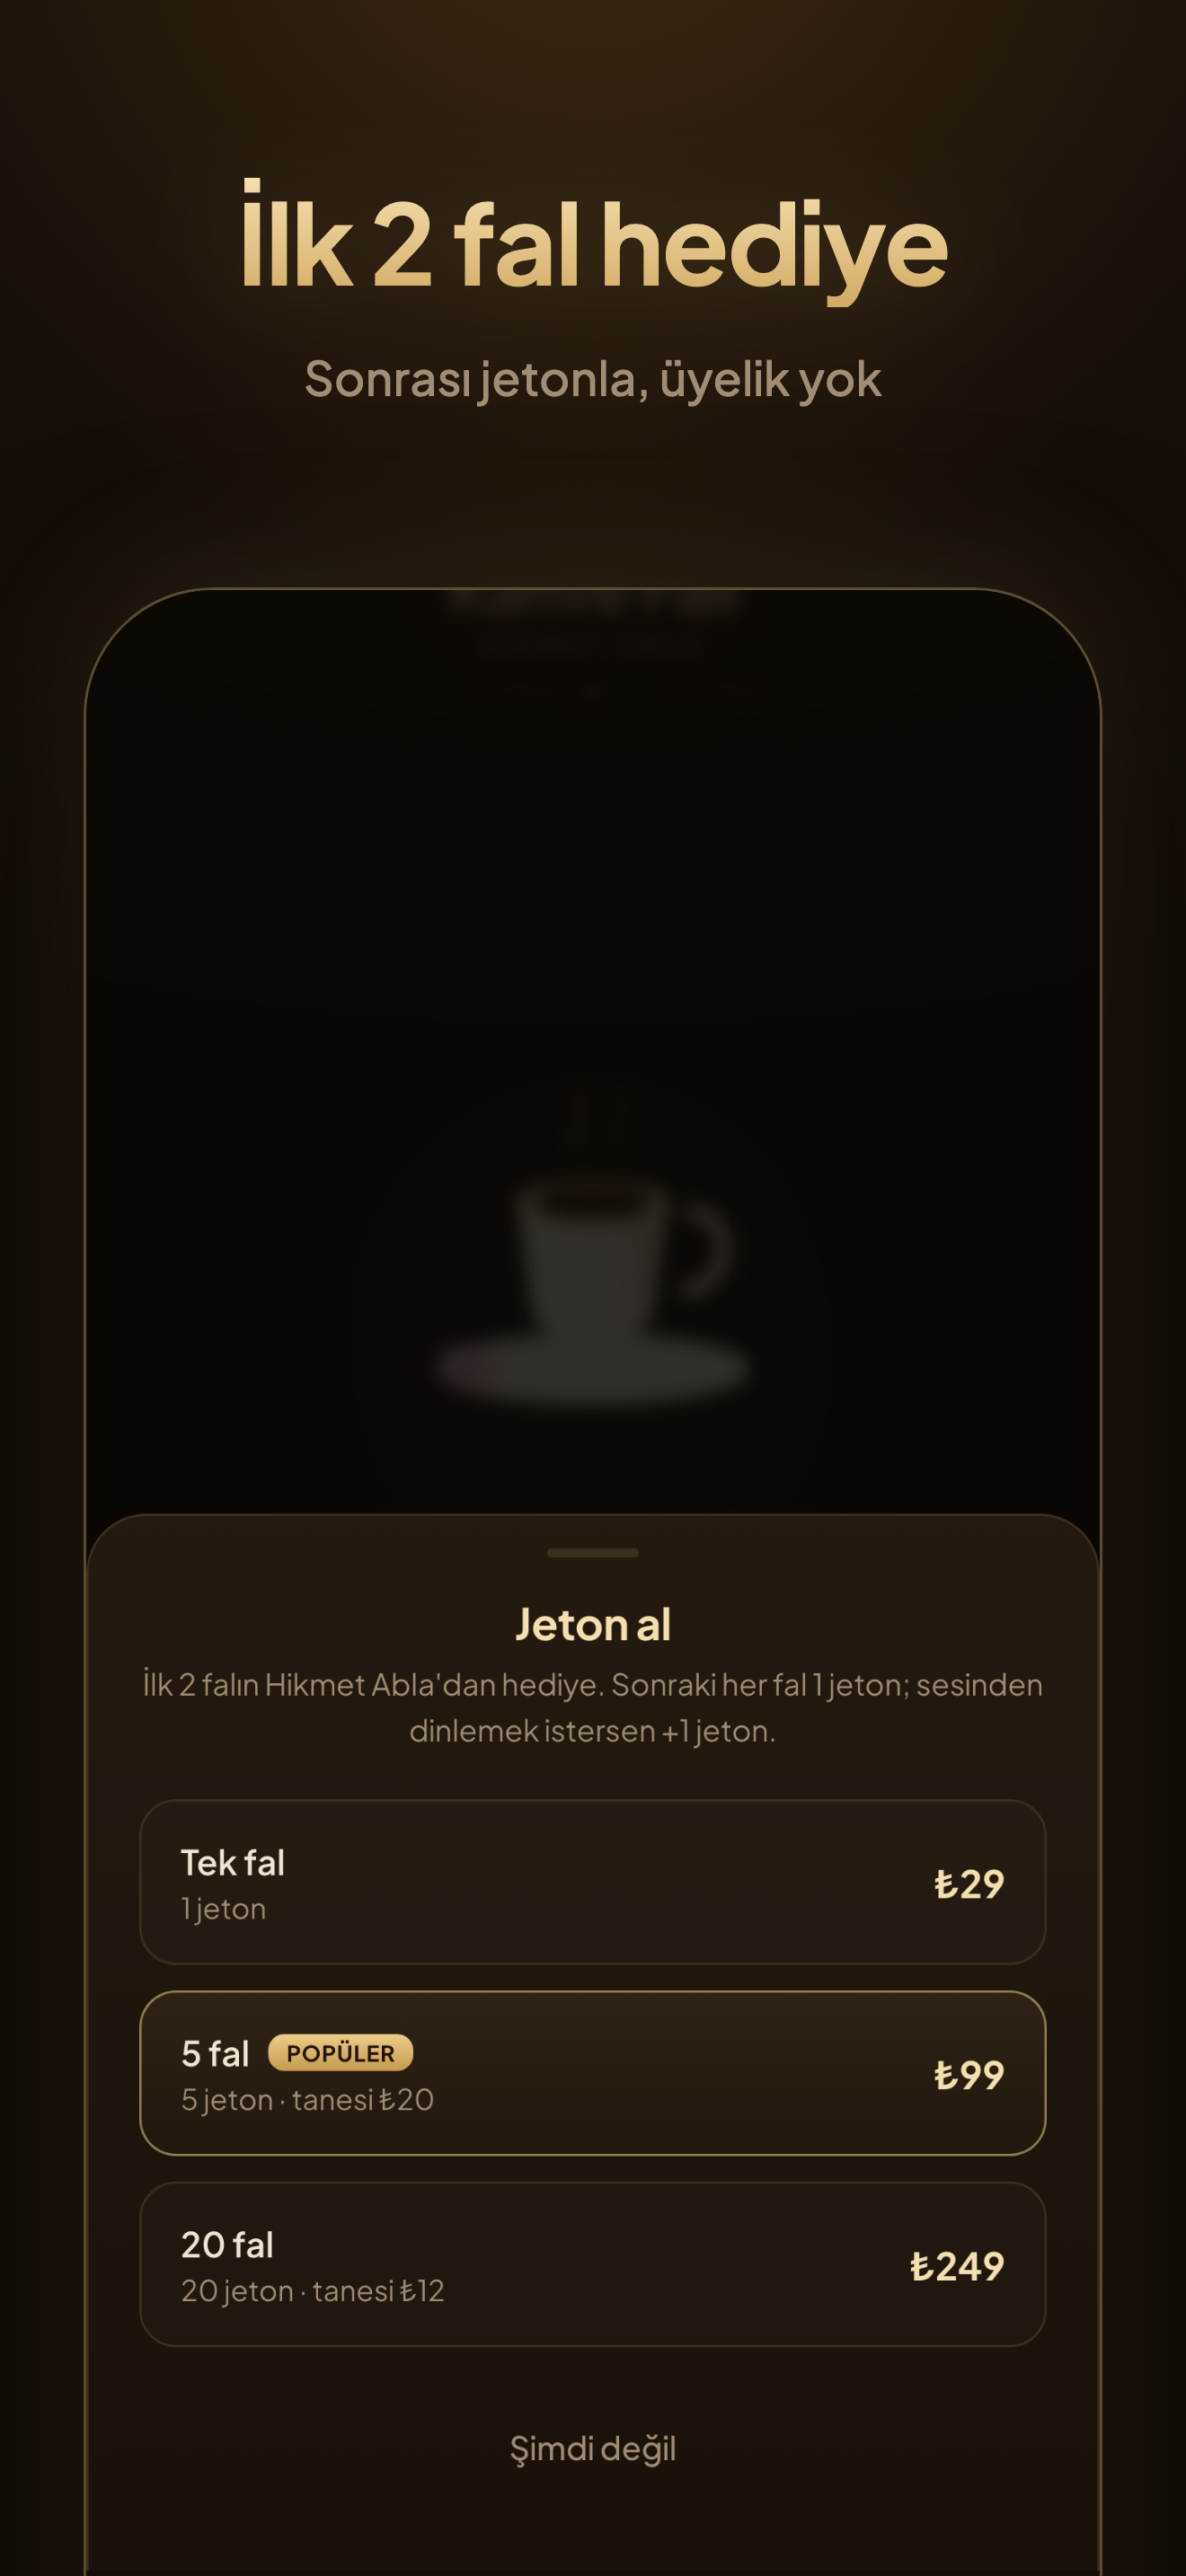
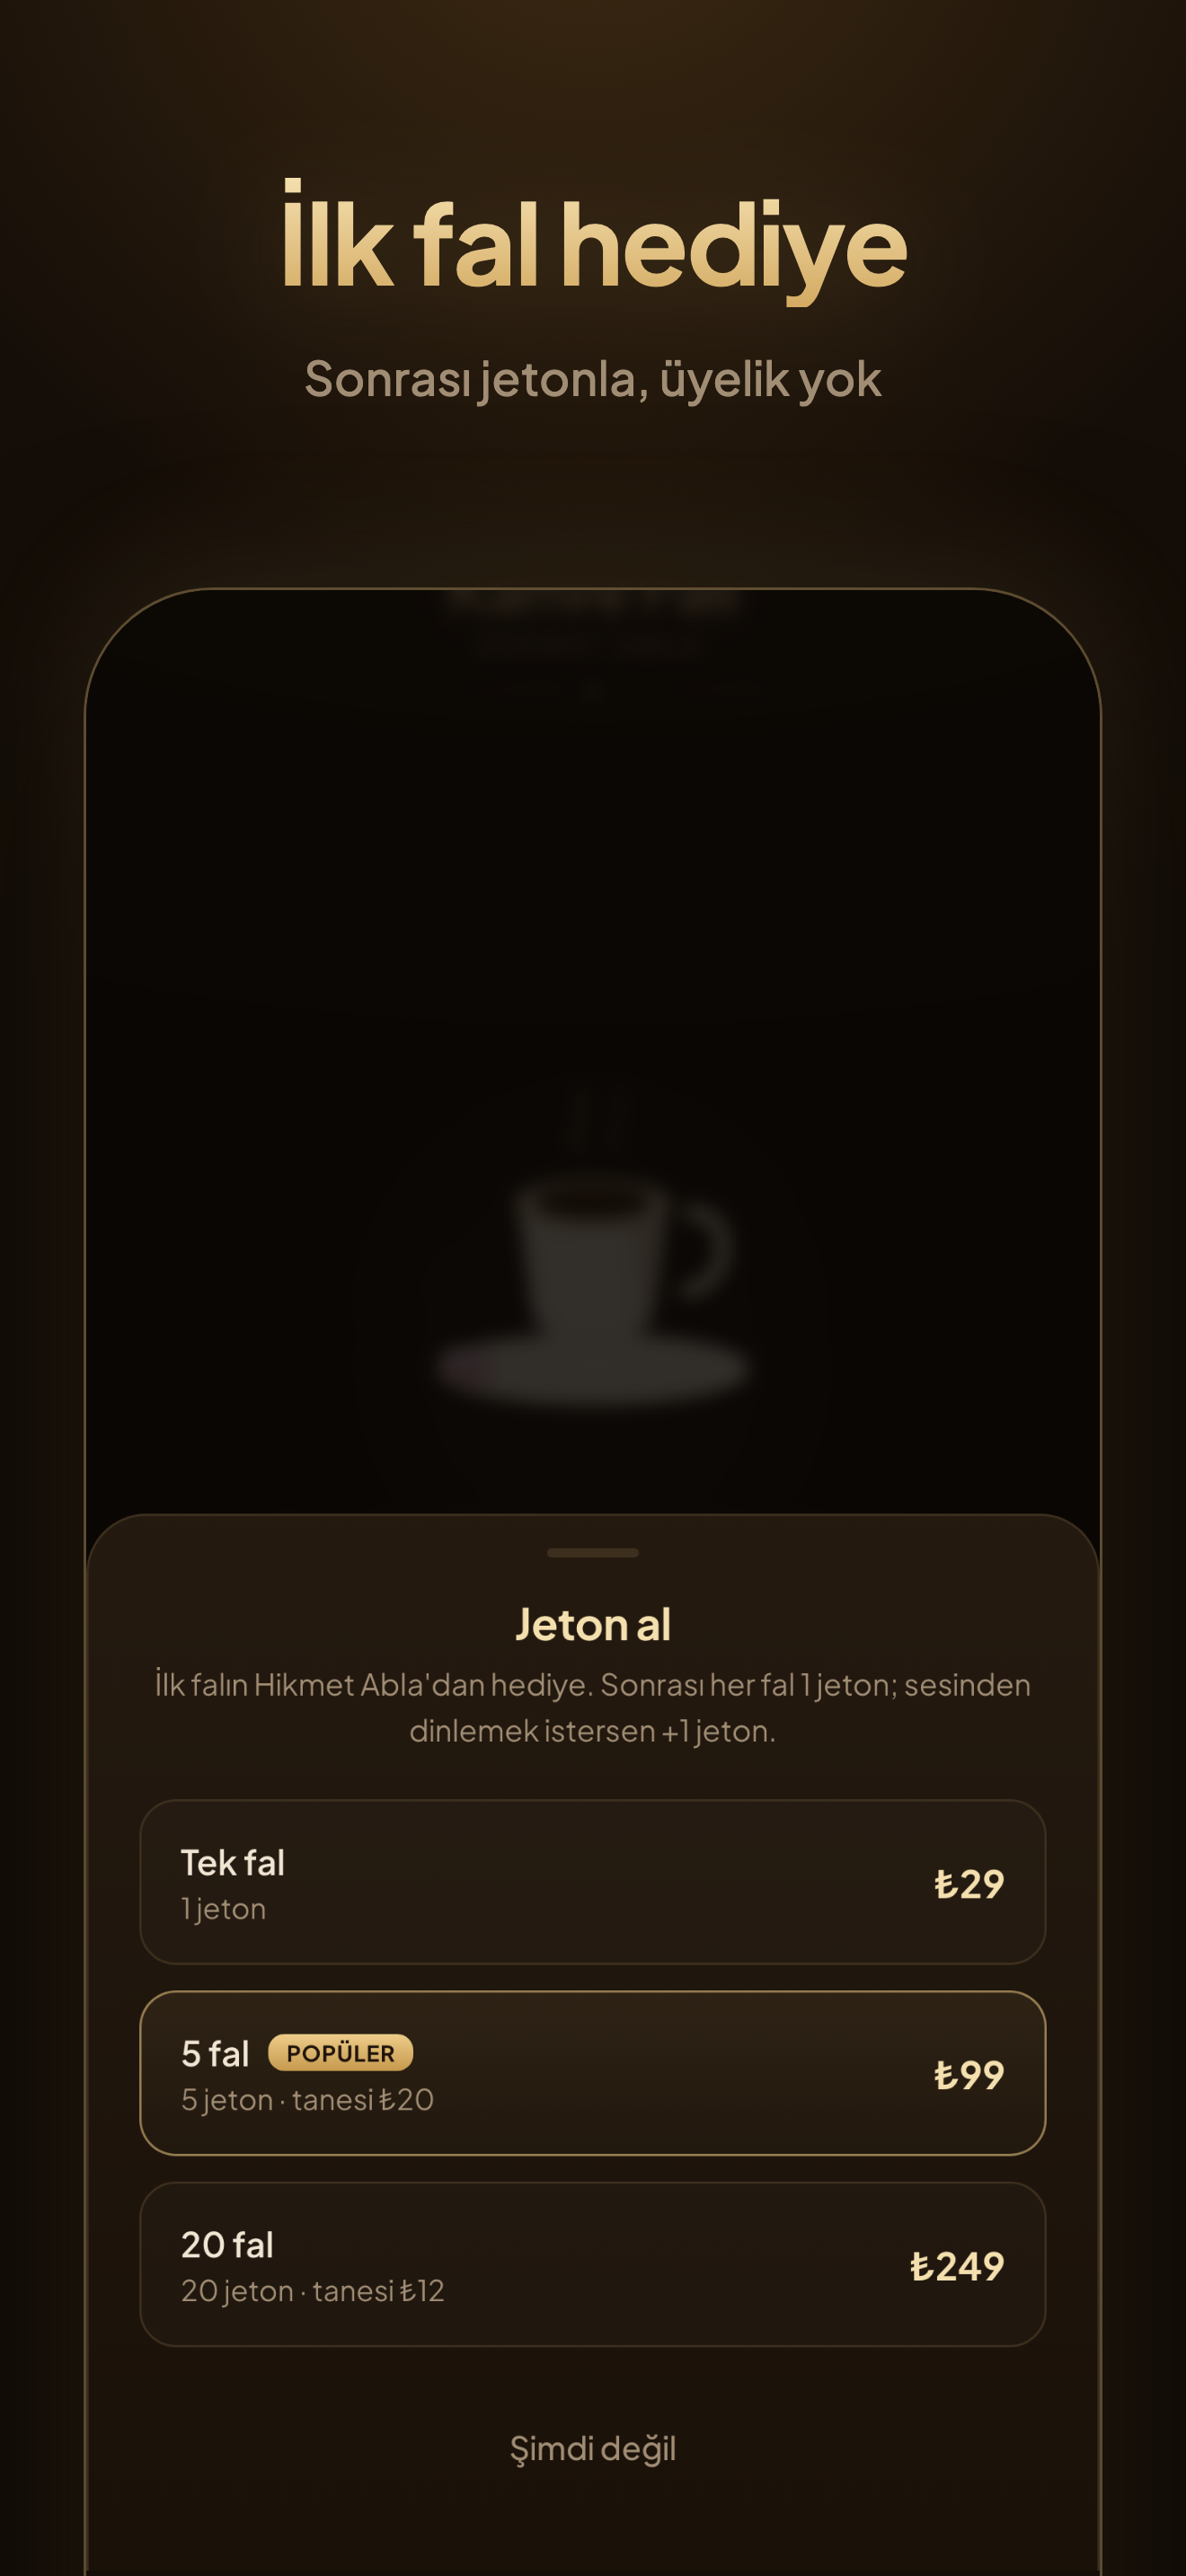
Hediye fal 2→1: uygulama metinleri, mağaza metinleri ve ss-1/ss-5 görselleri güncellendi

diff --git a/www/index.html b/www/index.html
@@ -243,7 +243,7 @@
   <div class="sheet">
     <div class="grip"></div>
     <h2>Jeton al</h2>
-    <p class="lead">İlk 2 falın Hikmet Abla'dan hediye. Sonraki her fal 1 jeton; sesinden dinlemek istersen +1 jeton.</p>
+    <p class="lead">İlk falın Hikmet Abla'dan hediye. Sonrası her fal 1 jeton; sesinden dinlemek istersen +1 jeton.</p>
     <div class="pak" data-jeton="1"><div class="l"><span class="n">Tek fal</span><span class="d">1 jeton</span></div><span class="p">₺29</span></div>
     <div class="pak best" data-jeton="5"><div class="l"><span class="n">5 fal <span class="badge">POPÜLER</span></span><span class="d">5 jeton · tanesi ₺20</span></div><span class="p">₺99</span></div>
     <div class="pak" data-jeton="20"><div class="l"><span class="n">20 fal</span><span class="d">20 jeton · tanesi ₺12</span></div><span class="p">₺249</span></div>
@@ -297,7 +297,7 @@ const MOCK = {
   kapanis:'Fincanın açık, niyetin güzel. Gördüklerim hayırlı olsun canım.'
 };
 
-const BEDAVA_HAK = 2;                                   // hediye fal sayısı
+const BEDAVA_HAK = 1;                                   // hediye fal sayısı
 let current = MOCK;
 let jeton = parseInt(localStorage.getItem('jeton') ?? '0', 10);
 let bedavaSayi = parseInt(localStorage.getItem('bedavaSayi') ?? (localStorage.getItem('bedavaFal') === '1' ? '1' : '0'), 10);
@@ -312,8 +312,7 @@ function durumYaz(){
   localStorage.setItem('jeton', jeton);
   localStorage.setItem('bedavaSayi', bedavaSayi);
   const kalan = BEDAVA_HAK - bedavaSayi;
-  if(kalan >= BEDAVA_HAK){ $('fiyatNot').textContent = 'İlk ' + BEDAVA_HAK + ' falın Hikmet Abla\'dan hediye'; $('ctaLabel').textContent = 'Fincanımın fotoğrafını çek'; }
-  else if(kalan > 0){ $('fiyatNot').textContent = kalan + ' hediye falın kaldı'; $('ctaLabel').textContent = 'Fincanımın fotoğrafını çek'; }
+  if(kalan >= 1){ $('fiyatNot').textContent = 'İlk falın Hikmet Abla\'dan hediye'; $('ctaLabel').textContent = 'Fincanımın fotoğrafını çek'; }
   else { $('fiyatNot').textContent = 'Her fal 1 jeton · sesli dinleme +1 jeton'; $('ctaLabel').textContent = 'Fal bak · 1 jeton'; }
 }
 function falHakkiVar(){ return bedavaSayi < BEDAVA_HAK || jeton >= 1; }